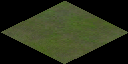
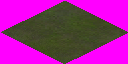
Added start of iface to gridTestIso

diff --git a/internal/gridTestIso.py b/internal/gridTestIso.py
@@ -78,10 +78,12 @@ def drawVisible(screen,grid,gridSizeX,gridSizeY,tile_width,tile_height,screenSiz
             print 'miny: ', miny
             print 'maxy:', maxy
             '''
+            
+            """
             txt = font.render(str((x%gridSizeX,y%gridSizeY)), False, (0,0,0))
             txtbound = txt.get_rect()
             txtbound.center = (left+tile_width / 2.0,top+tile_height / 2.0)
-            screen.blit(txt, txtbound)
+            screen.blit(txt, txtbound)"""
 
     
     """
@@ -144,12 +146,15 @@ ms_elapsed = 1
 font = pygame.font.Font(pygame.font.get_default_font(), 16)
 txt = font.render("FPS: ***", True, (255,255,255))
 txtbound = txt.get_rect()
+txtbound.center = (txtbound.center[0]+10,15)
 
 grid = dict()
 
 #grass1 = grass2 = DrawableObject("newGrass.png",(255,255,255))
-grass1 = pygame.image.load("GoodIsoGrass.png").convert_alpha()
-grass2 = pygame.image.load("GoodIsoGrass.png").convert_alpha()
+grass1 = pygame.image.load("newGrass.png").convert()
+grass1.set_colorkey((255,0,255))
+grass2 = grass1
+#grass2 = pygame.image.load("GoodIsoGrass.png").convert_alpha()
 building = pygame.image.load("testBuilding.png").convert_alpha()
 
 from random import choice,seed
@@ -161,12 +166,12 @@ for y in range(gridSizeY):
     for x in range(gridSizeX):
         
         square = choice(grass)
-        unit = choice([None,building])
+        unit = choice([None,building,None,None,None,None,None,None,None,None])
         grid[(x,y)] = (square,unit)
 
-hud1 = pygame.image.load("HUD_sism.png").convert_alpha()
+hud1 = pygame.image.load("fpsBar.png").convert_alpha()
 hudZone1 = hud1.get_rect()
-hud2 = pygame.image.load("HUD_sibottom.png").convert()
+hud2 = pygame.image.load("bottomHud.png").convert_alpha()
 hudZone2 = hud2.get_rect()
 hudZone2.bottom = height
 
@@ -178,7 +183,7 @@ gameClock = pygame.time.Clock()
 while RUNNING:
     ms_elapsed = gameClock.tick(maxFPS)
     
-    screen.fill((0,0,0))
+    #screen.fill((0,0,0))
     
     mPos = pygame.mouse.get_pos()
     #screenLoc = (mPos[0]-screenSize[0]/2.0+0.05,mPos[1]-screenSize[1]/2.0)
@@ -216,8 +221,8 @@ while RUNNING:
     
     pygame.draw.rect(screen, (150,150,0), deadZone, 3)
     
-    #screen.blit(hud1, hudZone1)
-    #screen.blit(hud2, hudZone2)
+    screen.blit(hud1, hudZone1)
+    screen.blit(hud2, hudZone2)
     
     txt = font.render("FPS: %s"%int(gameClock.get_fps()), True, (0,150,150))
     screen.blit(txt, txtbound)

diff --git a/internal/DrawableObjectOld.py b/internal/DrawableObjectOld.py
@@ -1,0 +1,40 @@
+#import useful modules here
+import pygame.image
+
+class DrawableObject():
+    """This is the super class of all object that can be drawn to the screen"""
+    def __init__(self, imagePath, colorkey=None):
+
+        # First class to have image and rect objects
+        self.image, self.rect = self.loadImage(imagePath,colorkey)
+
+    # First loadImage method
+    def loadImage(self, name, colorkey=None):
+        try:
+            image = pygame.image.load(name)
+        except pygame.error, message:
+            print 'Cannot load image:', name
+            raise SystemExit, message
+        image = image.convert()
+        if colorkey is not None:
+            if colorkey is -1:
+                colorkey = image.get_at((0,0))
+            image.set_colorkey(colorkey)
+        return image, image.get_rect()
+
+if __name__ == "__main__":
+    screenSize = (width, height) = (1024, 768)
+    screenLoc = [0.0, 0.0]
+
+    RUNNING = True
+    pygame.init()
+    screen = pygame.display.set_mode(screenSize)
+    screenZone = screen.get_rect()
+    
+    a = DrawableObject('ball.png',(255,255,255))
+    
+    while RUNNING:
+        pygame.init()
+        screen.blit(a.image,a.rect)
+        pygame.display.flip()
+    
